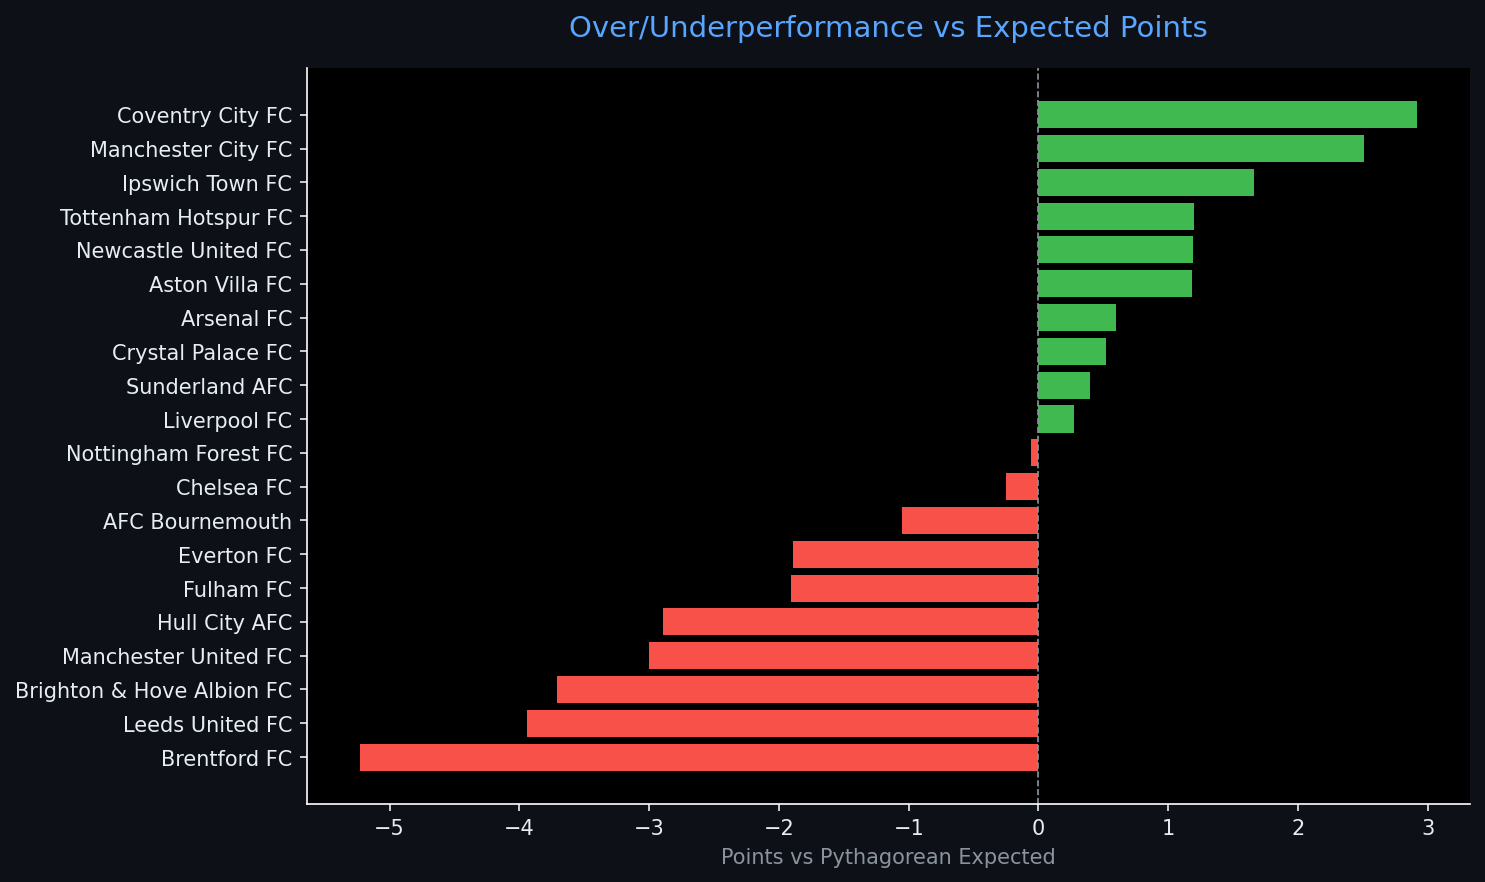
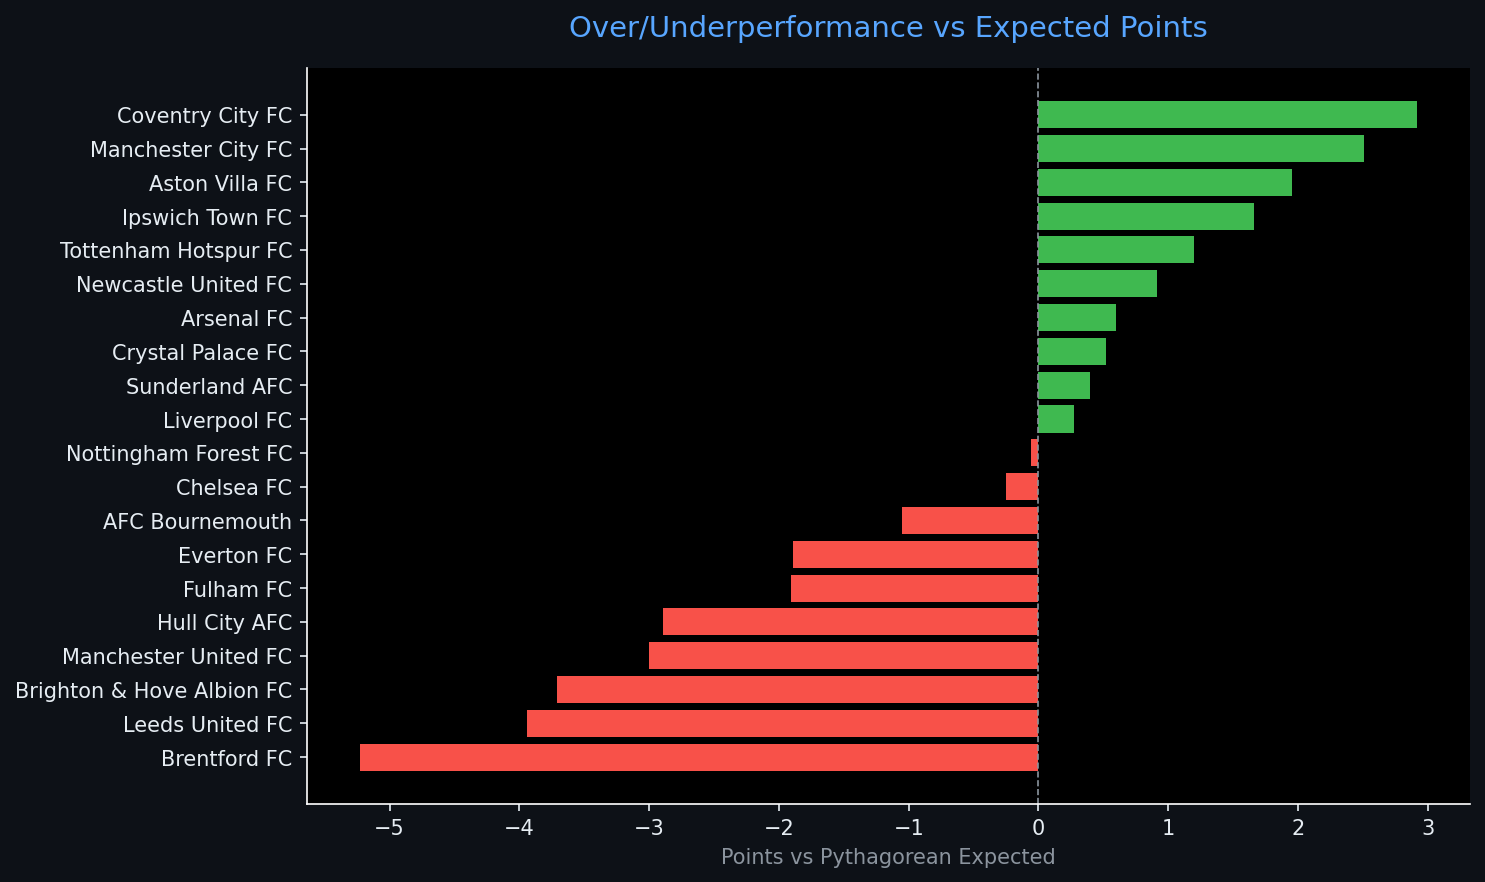
Automated ETL data update: 2026-10-17 19:56

Changed region(s): [[0.031, 0.1837, 0.1859, 0.3367], [0.8054, 0.1837, 0.8673, 0.2755], [0.7744, 0.3061, 0.8054, 0.3367]]

diff --git a/reports/pipeline_report.html b/reports/pipeline_report.html
@@ -4,7 +4,7 @@
 <head>
     <meta charset="UTF-8">
     <meta name="viewport" content="width=device-width, initial-scale=1.0">
-    <title>Sports Data Pipeline Report — 2026-10-17 16:46</title>
+    <title>Sports Data Pipeline Report — 2026-10-17 19:56</title>
     <style>
         body { font-family: 'Segoe UI', sans-serif; background: #0d1117; color: #e6edf3; margin: 0; padding: 2rem; }
         h1   { color: #58a6ff; border-bottom: 1px solid #30363d; padding-bottom: 0.5rem; }
@@ -20,7 +20,7 @@
 </head>
 <body>
     <h1>⚽ Sports Data Pipeline — Automated Report</h1>
-    <p class="meta">Generated: 2026-10-17 16:46 UTC &nbsp;|&nbsp; Sport: <strong>football</strong> &nbsp;|&nbsp; Rows: <strong>20</strong></p>
+    <p class="meta">Generated: 2026-10-17 19:56 UTC &nbsp;|&nbsp; Sport: <strong>football</strong> &nbsp;|&nbsp; Rows: <strong>20</strong></p>
     <span class="badge">Pipeline v1.0.0</span>
     <h2>📊 Data Table</h2>
     <table class="dataframe data-table">
@@ -179,21 +179,6 @@
     </tr>
     <tr>
       <td>10</td>
-      <td>Newcastle United FC</td>
-      <td>7</td>
-      <td>9</td>
-      <td>2</td>
-      <td>3</td>
-      <td>2</td>
-      <td>10</td>
-      <td>13</td>
-      <td>0.286</td>
-      <td>1.286</td>
-      <td>0.372</td>
-      <td>NaN</td>
-    </tr>
-    <tr>
-      <td>11</td>
       <td>Ipswich Town FC</td>
       <td>7</td>
       <td>9</td>
@@ -208,7 +193,37 @@
       <td>NaN</td>
     </tr>
     <tr>
+      <td>11</td>
+      <td>Newcastle United FC</td>
+      <td>7</td>
+      <td>8</td>
+      <td>2</td>
+      <td>2</td>
+      <td>3</td>
+      <td>10</td>
+      <td>14</td>
+      <td>0.286</td>
+      <td>1.143</td>
+      <td>0.338</td>
+      <td>NaN</td>
+    </tr>
+    <tr>
       <td>12</td>
+      <td>Aston Villa FC</td>
+      <td>7</td>
+      <td>8</td>
+      <td>2</td>
+      <td>2</td>
+      <td>3</td>
+      <td>7</td>
+      <td>11</td>
+      <td>0.286</td>
+      <td>1.143</td>
+      <td>0.288</td>
+      <td>NaN</td>
+    </tr>
+    <tr>
+      <td>13</td>
       <td>Crystal Palace FC</td>
       <td>6</td>
       <td>7</td>
@@ -223,7 +238,7 @@
       <td>NaN</td>
     </tr>
     <tr>
-      <td>13</td>
+      <td>14</td>
       <td>Manchester United FC</td>
       <td>6</td>
       <td>6</td>
@@ -235,21 +250,6 @@
       <td>0.167</td>
       <td>1.000</td>
       <td>0.500</td>
-      <td>NaN</td>
-    </tr>
-    <tr>
-      <td>14</td>
-      <td>Aston Villa FC</td>
-      <td>7</td>
-      <td>6</td>
-      <td>1</td>
-      <td>3</td>
-      <td>3</td>
-      <td>6</td>
-      <td>11</td>
-      <td>0.143</td>
-      <td>0.857</td>
-      <td>0.229</td>
       <td>NaN</td>
     </tr>
     <tr>
@@ -362,7 +362,7 @@
         
         <tr><td>Null Values</td><td>88</td></tr>
         
-        <tr><td>Run Timestamp (UTC)</td><td>2026-10-17T16:46:08.564222</td></tr>
+        <tr><td>Run Timestamp (UTC)</td><td>2026-10-17T19:56:27.050486</td></tr>
         
         <tr><td>ML Features Ready</td><td>False</td></tr>
         
